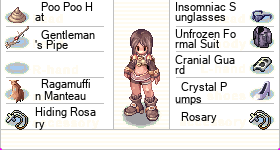
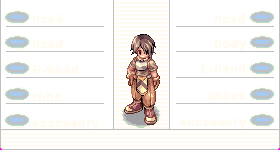
Implemented a way to execute python function from HTML just once

diff --git a/pyflask/app/templates/calculator_frame.html b/pyflask/app/templates/calculator_frame.html
@@ -6,60 +6,11 @@
     <link href="{{ url_for('static', filename='css/bstrap/bootstrap.min.css') }}" rel="stylesheet">
     <meta charset="UTF-8">
     <title>Calculator frame</title>
-    <script src="static/js/selection_rules.js"></script>
     <script src="https://ajax.googleapis.com/ajax/libs/jquery/2.1.3/jquery.min.js" type="text/javascript"></script>
+    <script src="static/js/selection_rules.js"></script>
+    <script src="static/js/autoscroll.js"></script>
+    <script src="static/js/autorefresh.js"></script>
     <script>
-        function forceSubmit(){
-             document.getElementById("submit").click();
-        }
-
-        function forceRender(){
-            var timestamp = new Date().getTime();
-            var src = "static/assets/custom.png?t=" + timestamp
-            return src;
-        }
-
-        function forceRender2(){
-            var timestamp = new Date().getTime();
-            var src = "static/assets/equip_custom.png?t=" + timestamp
-            return src;
-        }
-
-
-
-
-
-
-
-
-
-
-
-
-
-
-
-
-
-
-
-
-
-
-
-
-
-
-
-
-
-
-
-
-
-
-
-
 
     </script>
 </head>
@@ -68,13 +19,36 @@
 {% block content %}
 
 <script>
-        $(window).scroll(function () {
-            sessionStorage.scrollTop = $(this).scrollTop();
-        });
-        $(document).ready(function () {
-            if (sessionStorage.scrollTop != "undefined") {
-                $(window).scrollTop(sessionStorage.scrollTop);
+        $(function() {
+          $('a#test').on('click', function(e) {
+            e.preventDefault()
+
+            var response = {};
+                response['screening'] = '1';
+                response['assistance'] = 'wheelchair access';
+                response['guests'] = {};
+                response['guests']['1'] = {}
+                response['guests']['1']['first'] = 'John'
+                response['guests']['1']['last'] = 'Smith'
+                response['guests']['2'] = {}
+                response['guests']['2']['first'] = 'Dave'
+                response['guests']['2']['last'] = 'Smith'
+
+
+            var postData = {
+                base_level: {{form.base_level.data}},
+                job_level: {{form.job_level.data}},
+                player_gender: JSON.stringify(response)
             }
+
+            $.ajax({
+                url: "/background_process_test",
+                type: "POST",
+                data: JSON.stringify(postData),
+            });
+
+            return false;
+            });
         });
 </script>
 
@@ -97,33 +71,29 @@
                         <td class="data">
                             <table>
                                 <tbody>
-                                <tr class="thin">
-                                    <td class="right">Placeholder</td>
-                                </tr>
-
-                                <tr class="thin">
-                                    <td class="right">Placeholder</td>
-                                    <td> Select Placeholder</td>
+                                <tr class="thin" style="text-align:left;">
+                                    <td class="thin2">Select build</td>
+                                    <td class="thin3">Select Placeholder 1</td>
+                                    <td class="thin3"> Select Placeholder 4</td>
                                 </tr>
 
                                 <tr>
-                                    <td class="right">Placeholder</td>
-                                    <td> Select Placeholder</td>
+                                    <td class="thin2">{{form.file_selector(class="droplist")}}
+                                    </td>
+                                    <td class="thin3">
+                                        <a href=# id=test>
+                                            <button type="button"
+                                                    class="load_button" id="load_build_button">
+                                                Load
+                                            </button>
+                                        </a>
+                                    </td>
+                                    <td class="thin3"> Select Placeholder 5</td>
                                 </tr>
                                 <tr>
-
-                                    <td class="right">Placeholder</td>
-                                    <td> Select Placeholder</td>
-                                </tr>
-
-                                <tr>
-                                    <td class="right">Placeholder</td>
-                                    <td> Placeholder</td>
-                                </tr>
-
-                                <tr>
-                                    <td class="right">Placeholder</td>
-                                    <td> Placeholder</td>
+                                    <td class="thin2">Placeholder</td>
+                                    <td class="thin3"> Select Placeholder 2</td>
+                                    <td class="thin3"> Select Placeholder 6</td>
                                 </tr>
                                 </tbody>
                             </table>
@@ -459,11 +429,11 @@
         </div>
     </div>
 
-    <input type="submit" id="submit" name="SubmitButton" value="Submit" onclick="" style="display: none;"><br>
+    <input type="submit" id="submit" name="SubmitButton" value="Submit" style="display: none;"><br>
 </form>
 
 <br><br>
-<h3>ola</h3>
+<h3>{{form}}</h3>
 <h3>{{player_info}}</h3>
 
 {% endblock %}

diff --git a/pyflask/app/static/js/autoscroll.js b/pyflask/app/static/js/autoscroll.js
@@ -1,0 +1,18 @@
+var script = document.createElement('script');
+script.src = 'https://ajax.googleapis.com/ajax/libs/jquery/2.1.3/jquery.min.js';
+script.type = 'text/javascript';
+document.getElementsByTagName('head')[0].appendChild(script);
+
+
+
+
+$(window).scroll(function () {
+	sessionStorage.scrollTop = $(this).scrollTop();
+});
+$(document).ready(function () {
+	if (sessionStorage.scrollTop != "undefined") {
+		$(window).scrollTop(sessionStorage.scrollTop);
+	}
+});
+
+console.log('Autoscroll.js executed!')

diff --git a/pyflask/app/static/css/frames/calculator_frame.css b/pyflask/app/static/css/frames/calculator_frame.css
@@ -121,6 +121,15 @@ tr{
 .thin select{
 	height:16px;
 	margin:1px;
+	text-align:left;
+}
+
+.thin{
+	text-align:left;
+}
+
+.thin3{
+	text-align:left;
 }
 
 .right{
@@ -267,6 +276,17 @@ class_name{
 
 .weapon-list{
     margin-top: 2px;
+}
+
+.load_button {
+  background-color: #4CAF50; /* Green */
+  border: none;
+  color: white;
+  padding: 3px 24px;
+  text-align: center;
+  text-decoration: none;
+  display: inline-block;
+  font-size: 16px;
 }
 
 

diff --git a/pyflask/app/static/js/autorefresh.js b/pyflask/app/static/js/autorefresh.js
@@ -1,0 +1,17 @@
+function forceSubmit(){
+	document.getElementById("submit").click();
+}
+
+function forceRender(){
+	var timestamp = new Date().getTime();
+	var src = "static/assets/custom.png?t=" + timestamp
+	return src;
+}
+
+function forceRender2(){
+	var timestamp = new Date().getTime();
+	var src = "static/assets/equip_custom.png?t=" + timestamp
+	return src;
+}
+
+console.log('Autorefresh.js executed!')

diff --git a/pyflask/app/static/js/external_flask_function.js b/pyflask/app/static/js/external_flask_function.js
@@ -1,0 +1,17 @@
+$(function() {
+	$('a#test').on('click', function(e) {
+		e.preventDefault()
+		var postData = {
+			base_level: {{'form.base_level.dat'a}},
+			job_level: {{'form.job_level.data'}}
+		}
+		$.ajax({
+			url: "/background_process_test",
+			type: "POST",
+			data: JSON.stringify(postData),
+		});
+		return false;
+	});
+});
+
+console.log("external_flask_function.js loaded!")

diff --git a/pyflask/app/controllers/default.py b/pyflask/app/controllers/default.py
@@ -9,7 +9,7 @@ from flask import render_template, request, redirect, session, url_for, g
 
 import app.databases.db_operations as dbo
 from app import app
-from app.models.forms import LoginForm, RegisterForm, CalculatorForm, calc_dynamic_select
+from app.models.forms import LoginForm, RegisterForm, CalculatorForm, calc_dynamic_select, fill_calc_with_json
 
 from ragnarok.main.gear_query import is_refineable, has_slots, has_slots_by_name, is_refineable_by_name, \
     normalize_form_values, generate_equipable_weapons_old, has_multiple_slots
@@ -139,6 +139,8 @@ def calcframe():
     pi['possible_stats'] = [0, 0, 0, 0, 0, 0]
     if request.method == 'POST' and request.form:
         calc_dynamic_select(form)
+        fill_calc_with_json(form)
+        # fill_calc_with_json(form)
         p1 = PlayerBuild(jbl, int(pi['base_level']), int(pi['job_level']), uncapitalize(pi['class_name']),
                          [int(pi['player_str']), int(pi['player_agi']), int(pi['player_vit']),
                           int(pi['player_int']), int(pi['player_dex']), int(pi['player_luk'])])
@@ -157,7 +159,21 @@ def calcframe():
                            is_refineable=is_refineable,
                            has_slots=has_slots,
                            has_multiple_slots=has_multiple_slots,
-                           deletion_dict=deletion_dict)
+                           deletion_dict=deletion_dict,
+                           fill_calc=fill_calc_with_json)
+
+
+@app.route('/background_process_test', methods=["POST", "GET"])
+def background_process_test():
+    fpl = request.form.to_dict()
+    print("Hello {}".format(fpl))
+    txt_path = os.path.abspath(os.path.join(os.path.dirname(__file__),
+                                            '..', '..', '..', 'ragnarok', 'resources',
+                                            "default_players", "virtual_flag.txt"))
+    f = open(txt_path, "w")
+    f.write("True")
+    f.close()
+    return "nothing"
 
 
 @app.route("/loginframe")

diff --git a/pyflask/app/models/forms.py b/pyflask/app/models/forms.py
@@ -1,3 +1,6 @@
+import os
+import pandas as pd
+
 from flask_wtf import FlaskForm
 from wtforms import StringField, PasswordField, BooleanField, SelectField
 from wtforms.validators import DataRequired, Email, Length, EqualTo
@@ -54,6 +57,8 @@ class CalculatorForm(FlaskForm):
     armor_choices = ['(No Armor)']
 
     card_choices = ['Poring Card']
+
+    file_selector = SelectField('base_level', choices=["No file", "No file 2"])
 
     base_level = SelectField('base_level', choices=baselevel_choices)
     job_level = SelectField('job_level', choices=joblevel_choices)
@@ -185,4 +190,36 @@ def calc_dynamic_select(input_form):
         form.headlow_item.data = headnames['headlow']
 
     form.base_level.default = '57'
+
+    custombuild_path = os.path.abspath(os.path.join(os.path.dirname(__file__),
+                                                    '..', '..', '..', 'ragnarok', 'resources',
+                                                    "default_players"))
+
+    custombuild_list = []
+
+    for file in os.listdir(custombuild_path):
+        sliced_file = file.split('.')
+        custombuild_list.append((custombuild_path + "\\{}".format(file), sliced_file[0].capitalize()))
+
+    form.file_selector.choices = custombuild_list
     # form.process()
+
+
+def fill_calc_with_json(input_form):
+    form = input_form
+    # custombuild = pd.read_json(r'{}'.format(form.file_selector.data))['Body']
+    txt_path = os.path.abspath(os.path.join(os.path.dirname(__file__),
+                                            '..', '..', '..', 'ragnarok', 'resources',
+                                            "default_players", "virtual_flag.txt"))
+    f = open(txt_path, "r")
+    flag_check = str(f.read())
+    f.close()
+    if flag_check == "True":
+        f = open(txt_path, "w")
+        f.write("False")
+        f.close()
+        form.base_level.default = '57'
+        form.process()
+
+
+    return 'OI MEU CHAPA TUDO BOM COM VC'

diff --git a/ragnarok/main/ide.py b/ragnarok/main/ide.py
@@ -66,3 +66,20 @@ pizza = {"headgear1": ["Poo Poo Hat", 0, "(No Card)"],
          "accessory1": ["Rosary [1]", 0, "Smokie Card"],
          "accessory2": ["Rosary", 0, "(No Card)"],
          "weapon": ["(no weapon)", 0, "(No Card)", "(No Card)", "(No Card)", "(No Card)"]}
+
+custombuild_path = os.path.abspath(os.path.join(os.path.dirname(__file__), '..', 'resources',
+                                                "default_players"))
+
+custombuild_file = custombuild_path + '\\trapper_frontline.json'
+
+hunter = pd.read_json(r'{}'.format(custombuild_file))['Body']
+
+print(hunter)
+
+custombuild_dict = dict()
+
+for file in os.listdir(custombuild_path):
+    sliced_file = file.split('.')
+    custombuild_dict[sliced_file[0]] = custombuild_path + "\\{}".format(file)
+
+print(custombuild_dict)
